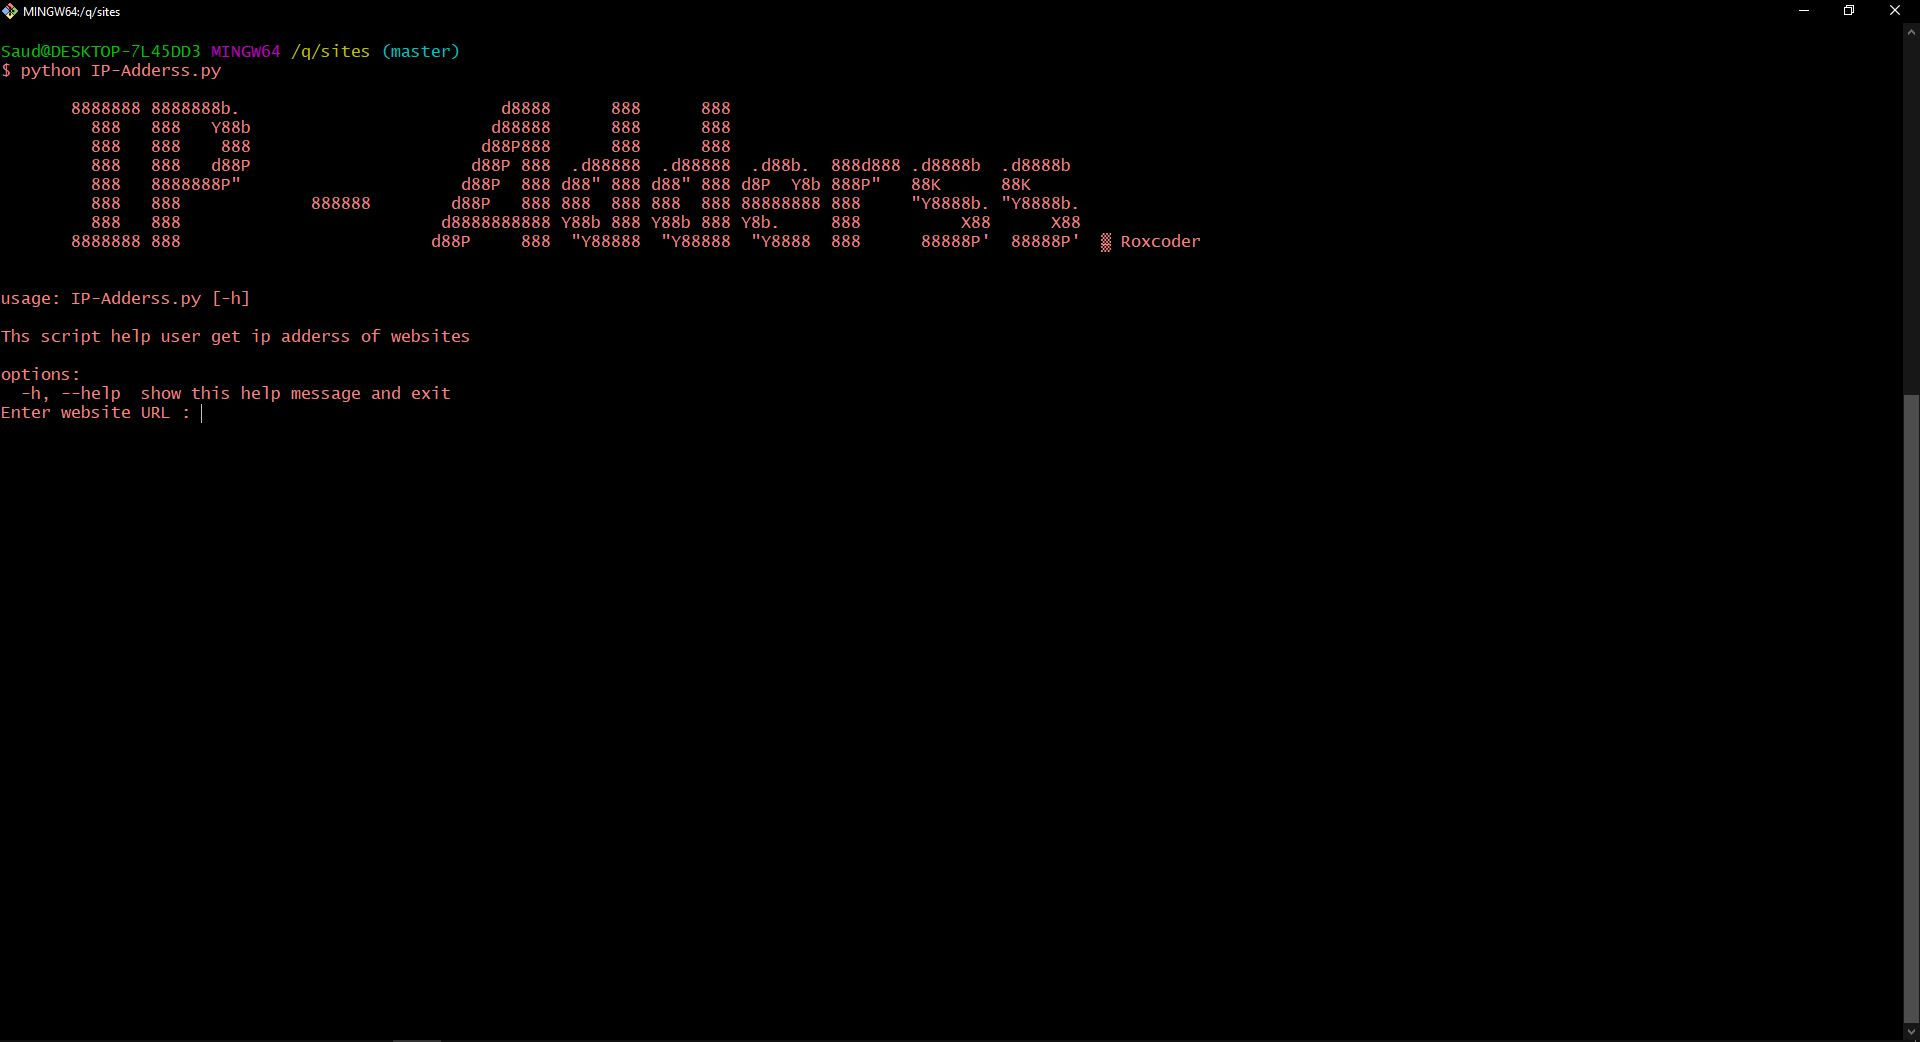
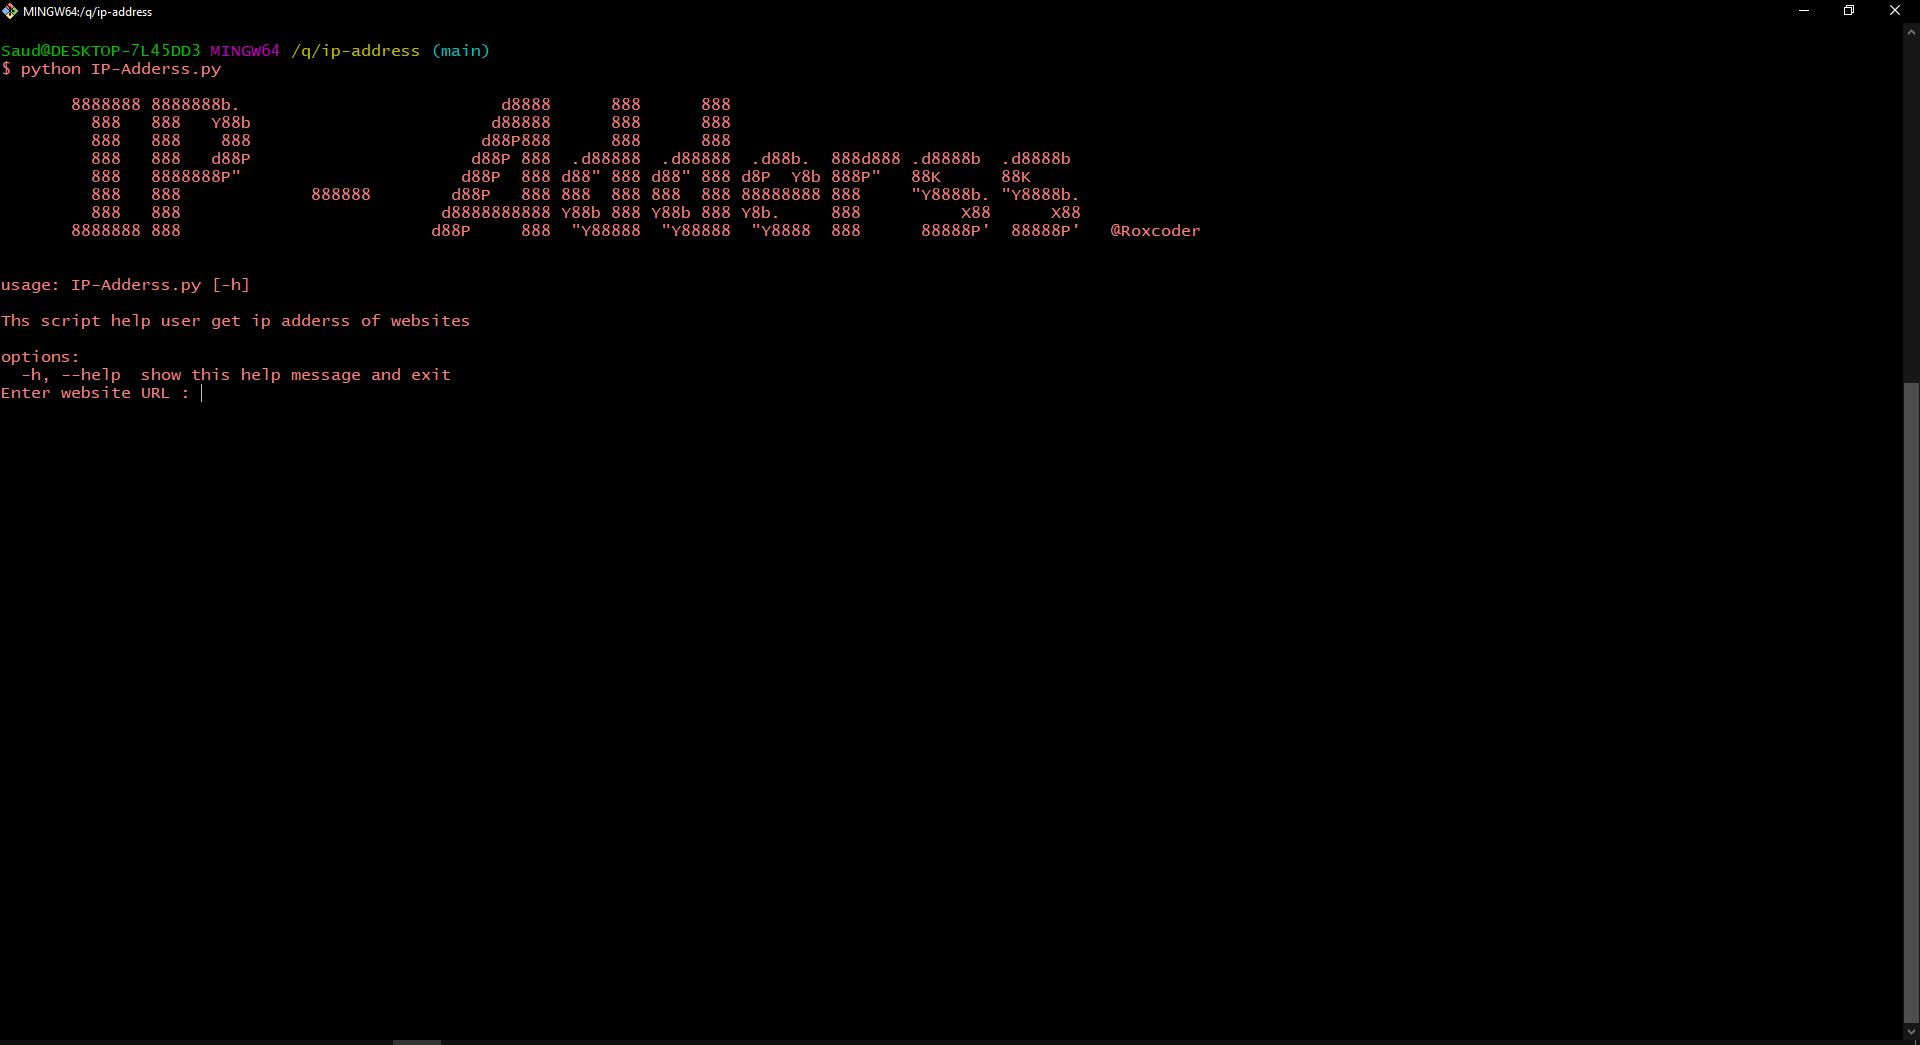
modifing python file and adding new capture

Changed region(s): [[0.0, 0.0307, 0.25, 0.3992], [0.2188, 0.0921, 0.625, 0.2457], [0.1562, 0.1843, 0.1875, 0.215]]

diff --git a/IP-Adderss.py b/IP-Adderss.py
@@ -9,7 +9,7 @@ print("""
          888   8888888P"                      d88P  888 d88" 888 d88" 888 d8P  Y8b 888P"   88K      88K      
          888   888             888888        d88P   888 888  888 888  888 88888888 888     "Y8888b. "Y8888b. 
          888   888                          d8888888888 Y88b 888 Y88b 888 Y8b.     888          X88      X88 
-       8888888 888                         d88P     888  "Y88888  "Y88888  "Y8888  888      88888P'  88888P'  ® Roxcoder                                                                                          
+       8888888 888                         d88P     888  "Y88888  "Y88888  "Y8888  888      88888P'  88888P'   @Roxcoder                                                                                          
 """)
 
 #Create varble call parser and adding description of script
